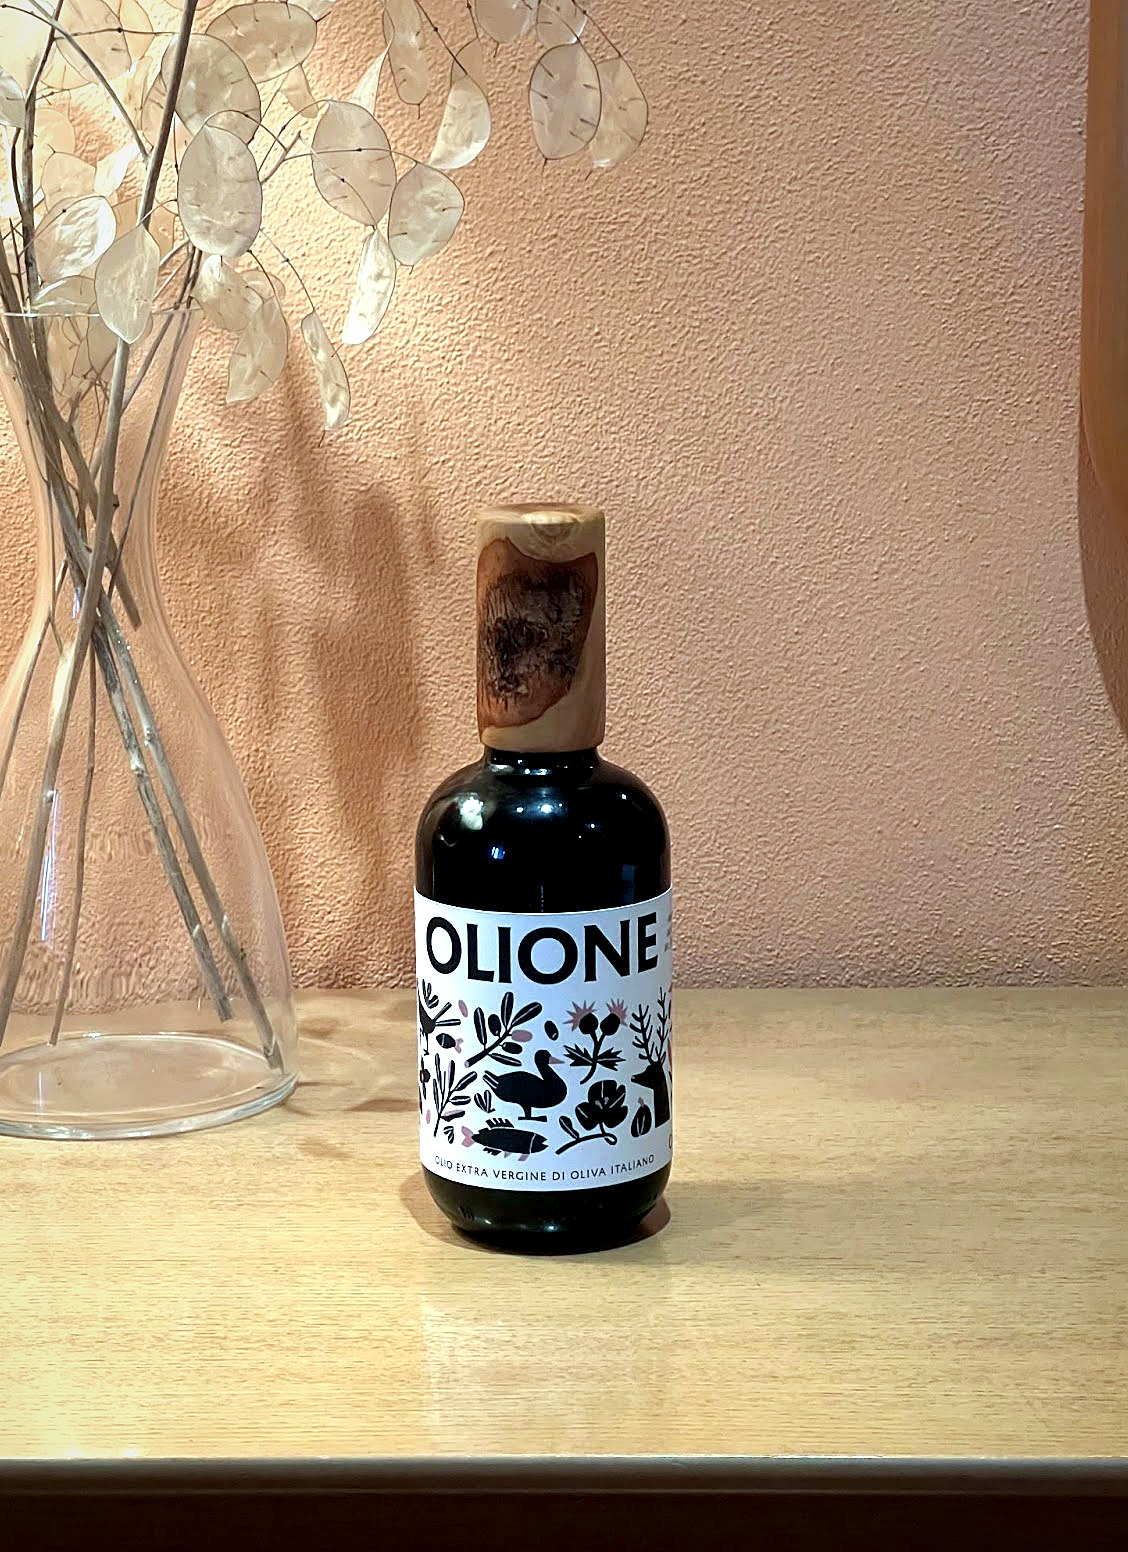
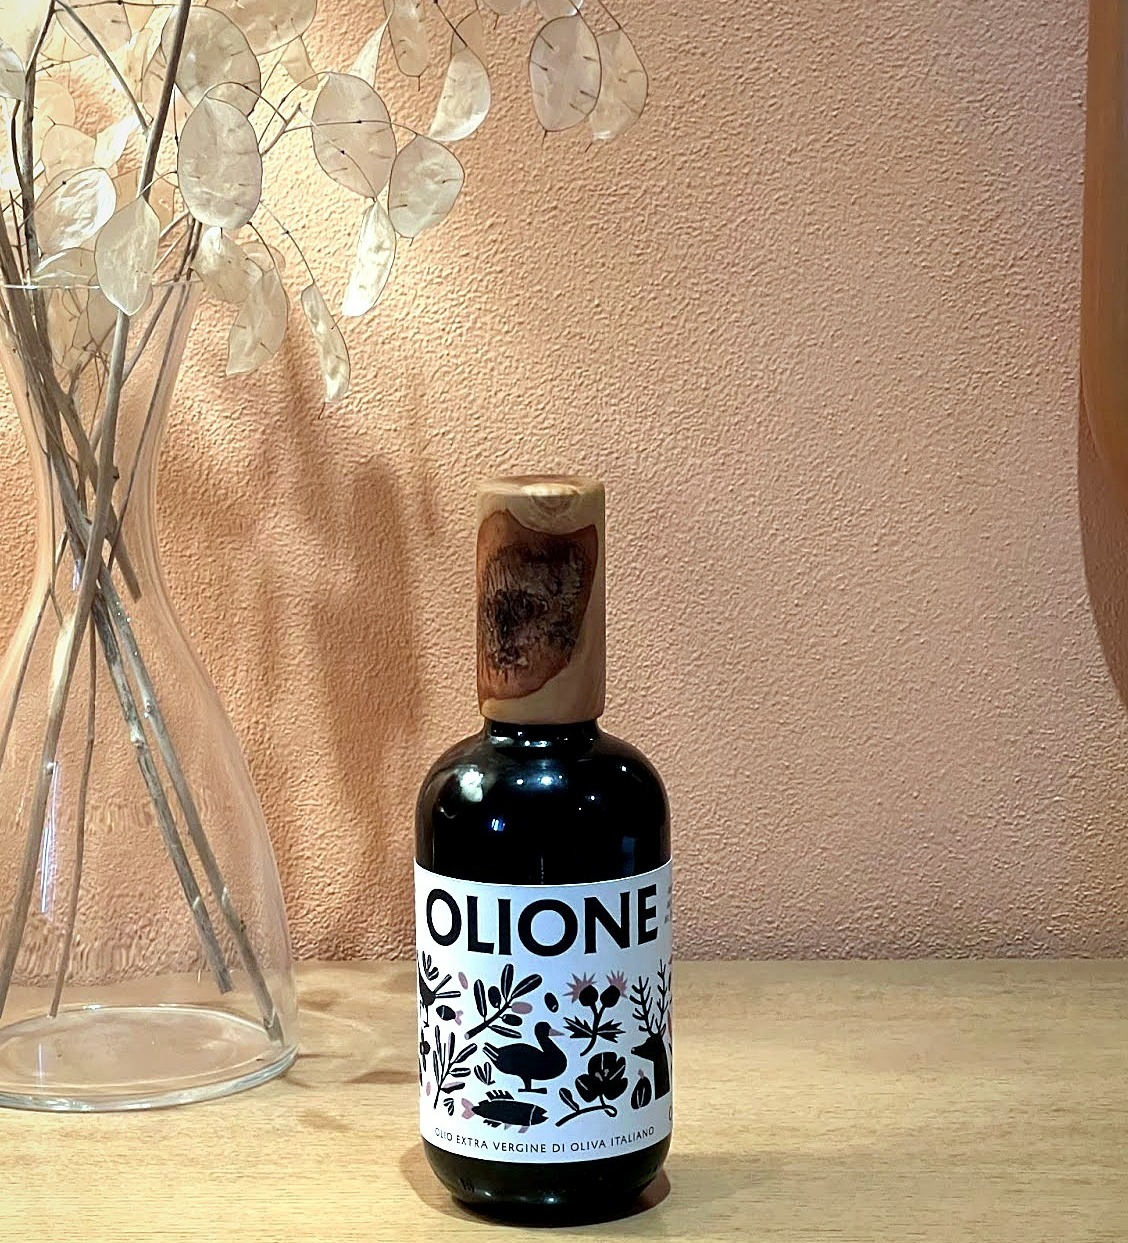
Crop the furniture edge out of the bottle product photo.

diff --git a/index.html b/index.html
@@ -231,8 +231,8 @@
               <img
                 src="assets/photos/prodotti.jpg"
                 alt="Bottiglia Olione, olio extravergine di oliva italiano"
-                width="1200"
-                height="1600"
+                width="1128"
+                height="1243"
                 loading="lazy"
               />
             </figure>
